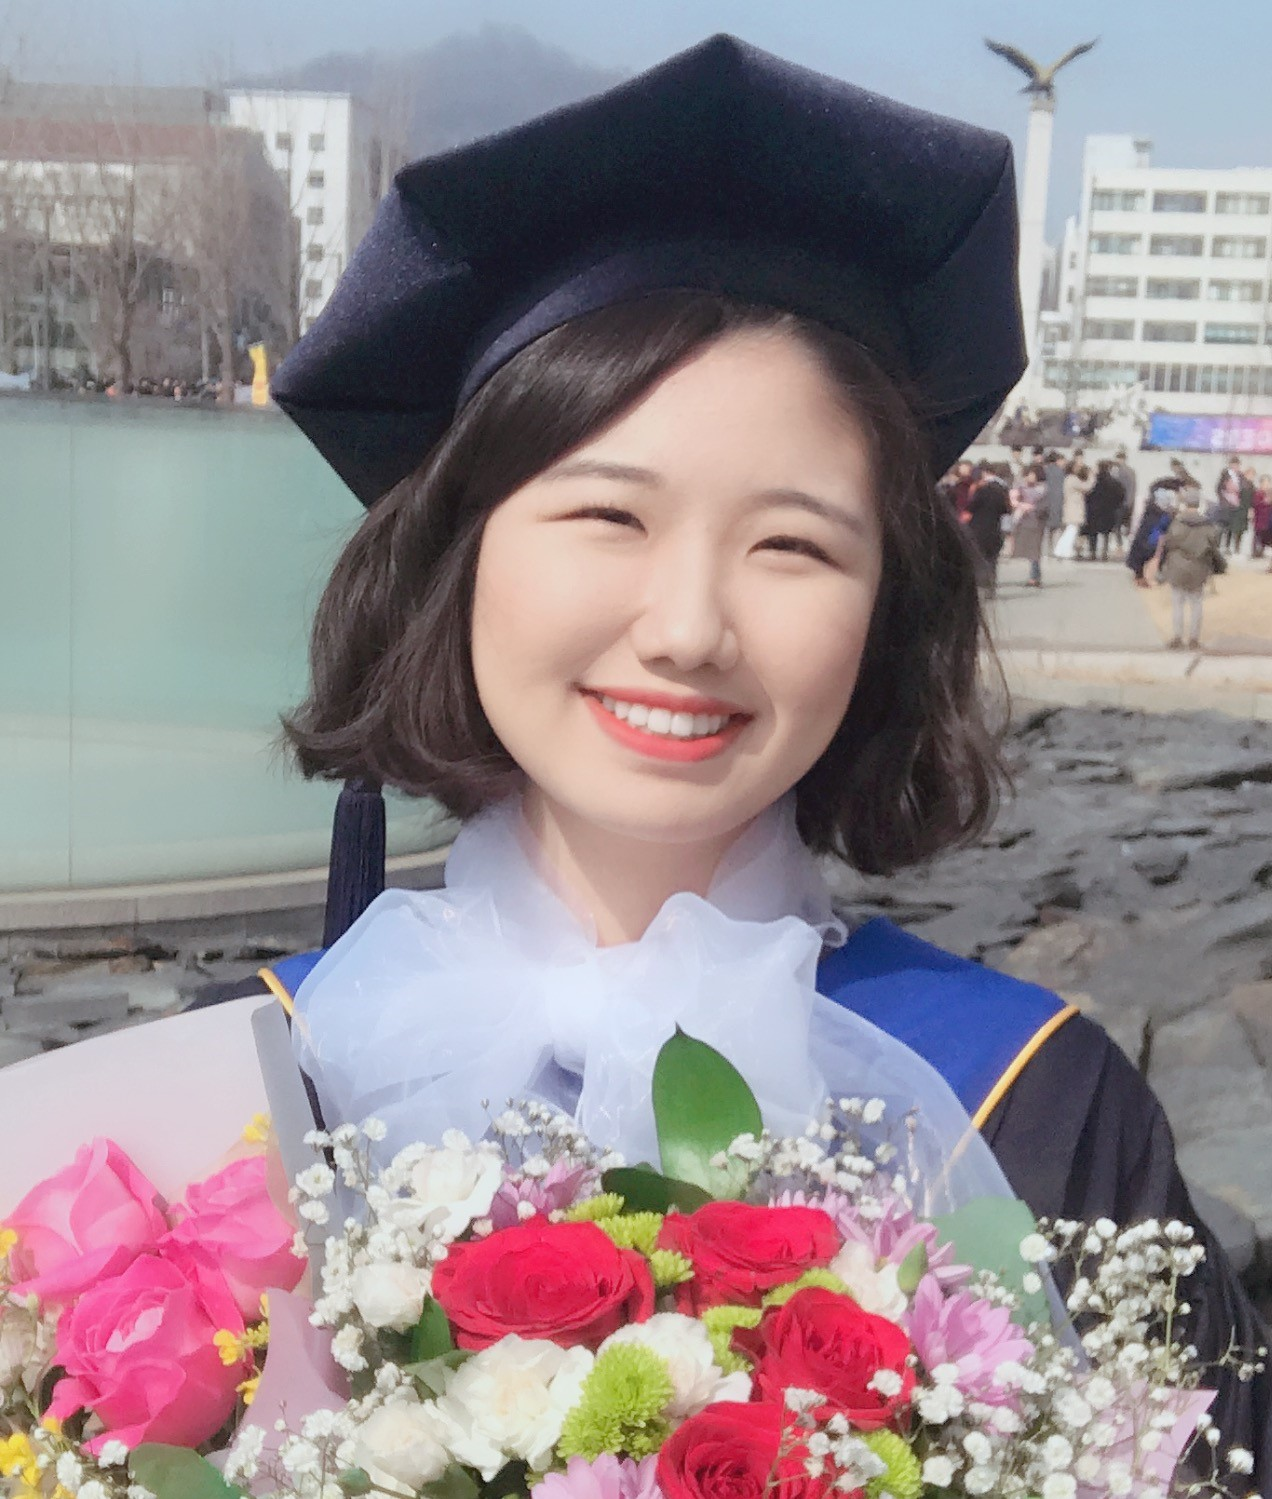
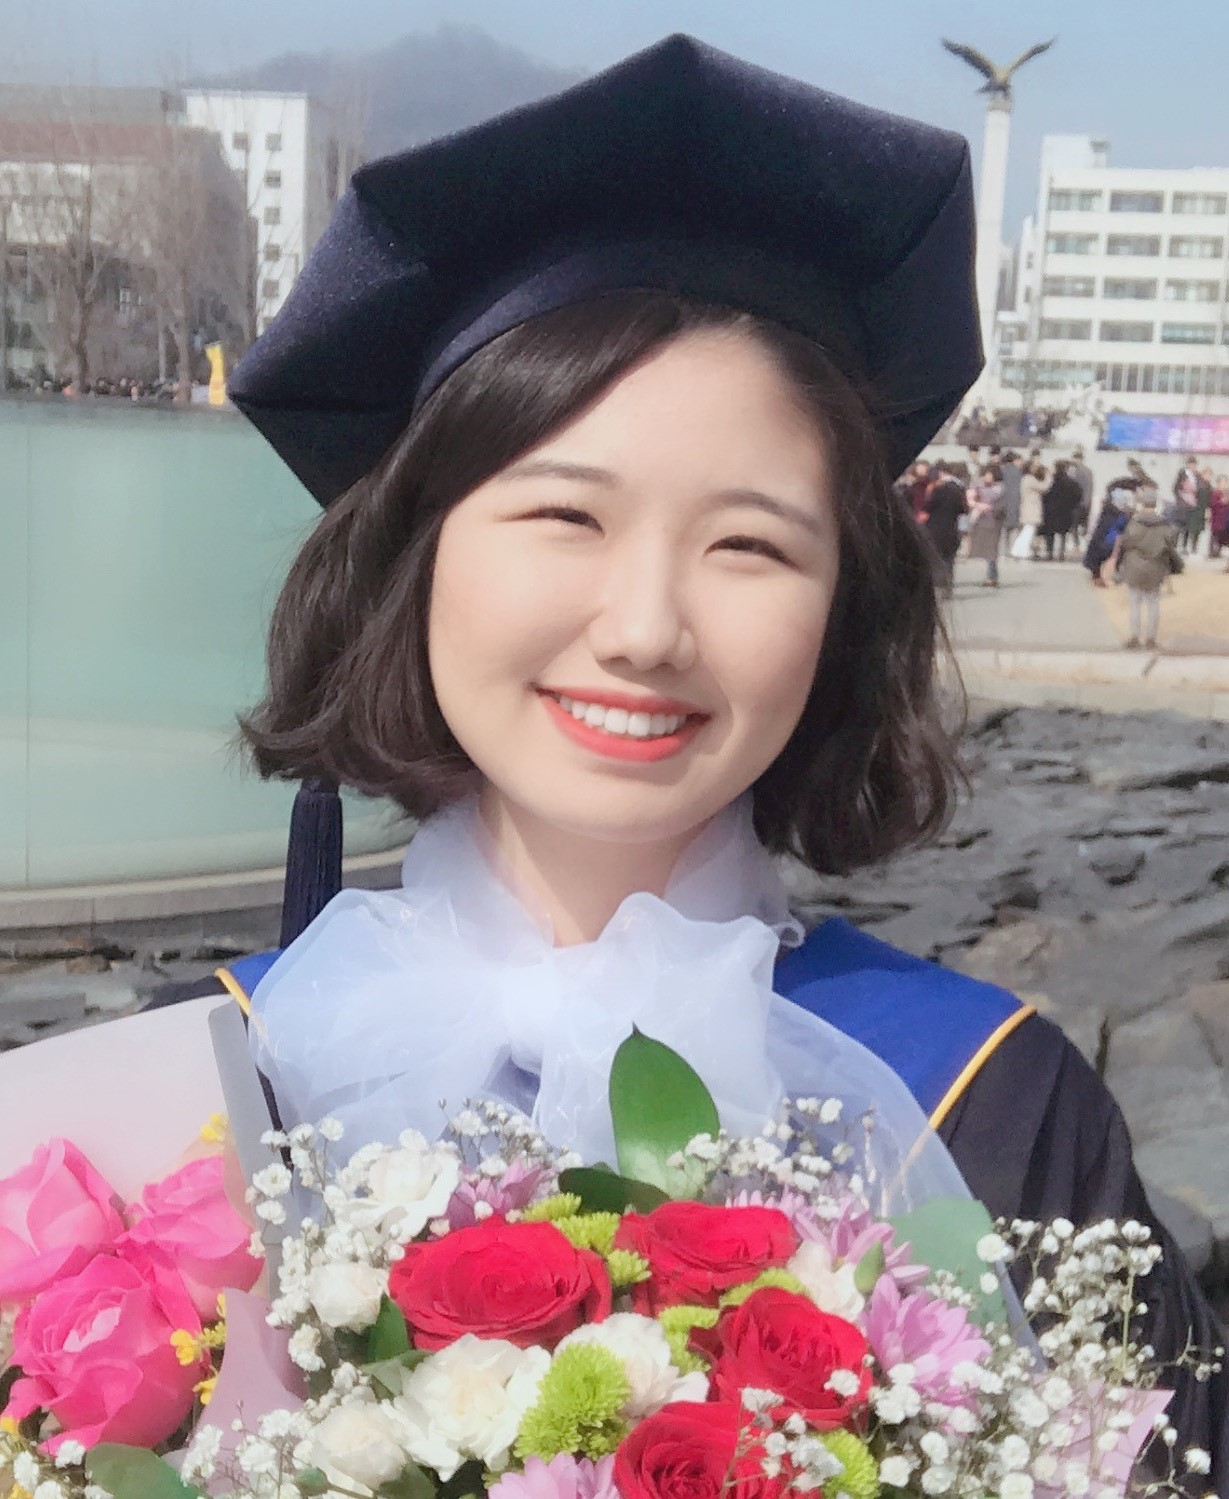
profile update

Changed region(s): [[0.0, 0.0, 0.9894, 1.0], [0.6802, 0.0614, 0.773, 0.0921], [0.8657, 0.491, 0.8967, 0.5217]]

diff --git a/_sass/typography.scss b/_sass/typography.scss
@@ -37,10 +37,10 @@
         font-style: italic;
     }
     .profile-picture {
-        height: 250px;
-        width: 200px;
+        height: 200px;
+        width: 150px;
         position: relative;
-        margin: -10px 0 0 15px;
+        margin: 0 0 0 25px;
         float: right;
         p & {
             padding: 0;
